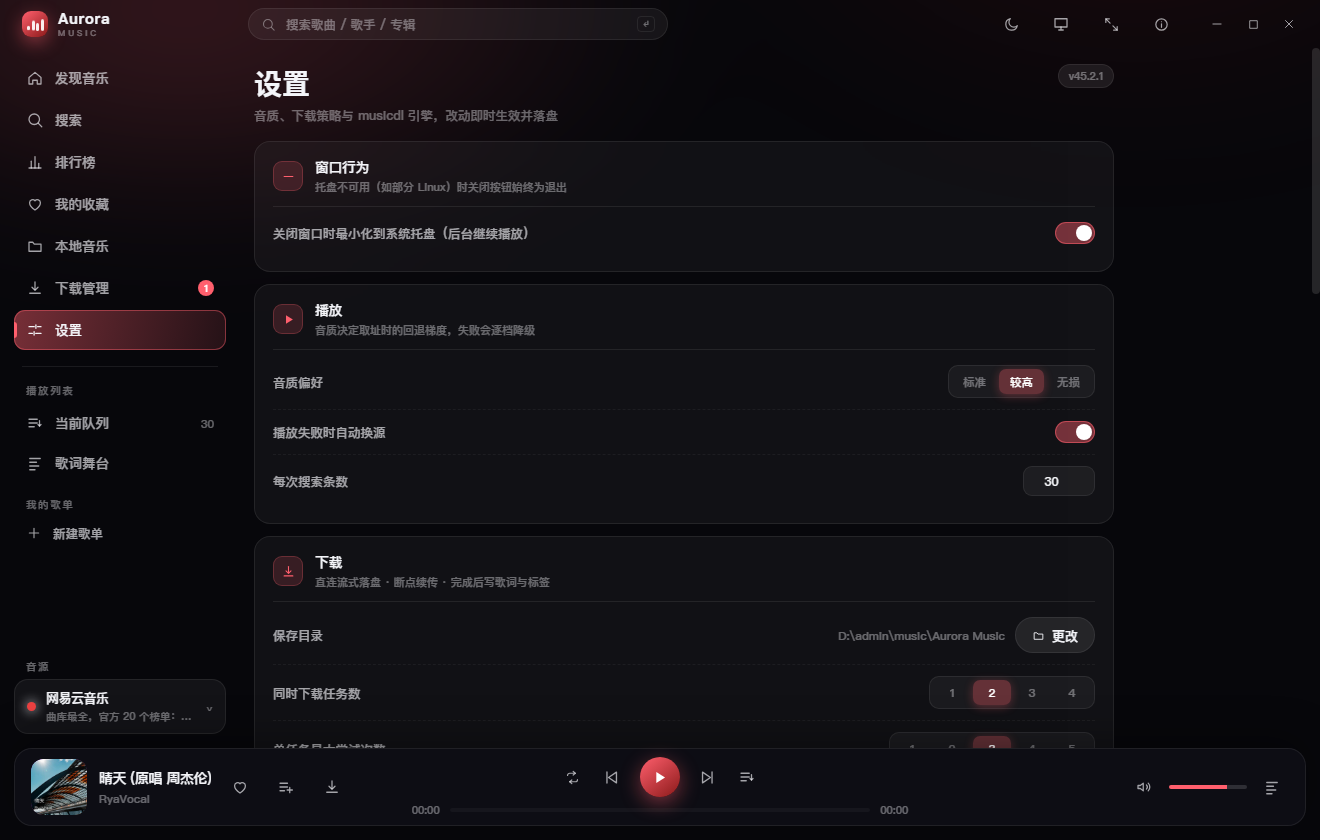
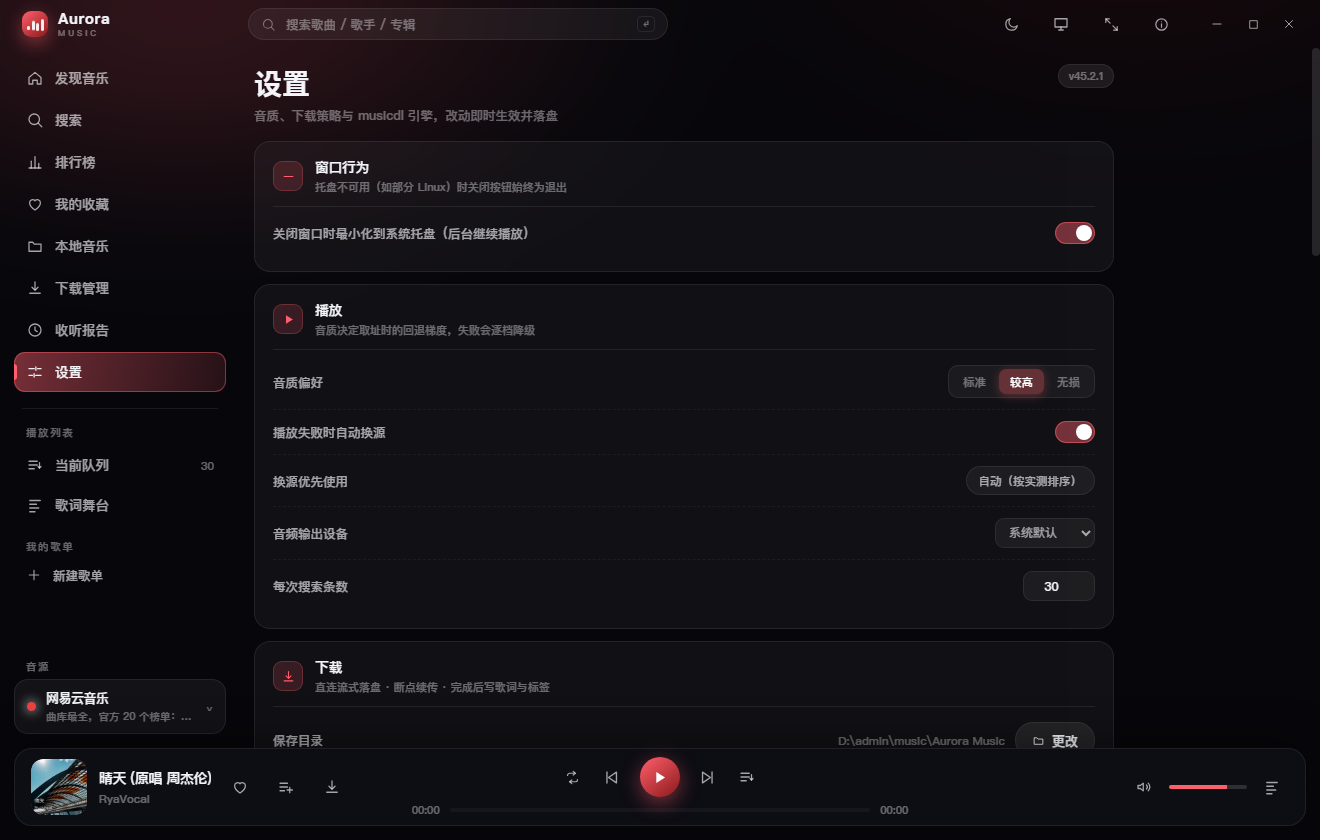
docs: 同步基础体验补齐的功能说明与数字

diff --git a/README.md b/README.md
@@ -17,12 +17,13 @@ Electron 45 + Vue 3.5 + TypeScript 5.9 + Vite 6，深色毛玻璃界面；内置
 | --- | --- |
 | **音源** | 20 个音源统一接口：5 个原生适配器 + 15 个进程内引擎音源，侧栏一键切换，无需重启 |
 | **搜索** | 关键词搜索、榜单浏览、增量出结果（慢音源解析一首显示一首）、搜索历史 |
-| **播放** | 四种播放模式（列表 / 单曲 / 随机 / 顺序）、队列抽屉（跨重启保留、拖拽重排、可存为歌单）、最近播放、收听统计（本周最常听、累计时长、独立收听报告页：13 周热力图 / 本月 Top 20 / 来源分布）、睡眠定时（15 / 30 / 60 分钟或播完本曲）、停滞自愈（同源重取 → 跨源换源）、换一个版本（跨音源手动挑替代版本，播放失败处与搜索结果都能进） |
+| **播放** | 四种播放模式（列表 / 单曲 / 随机 / 顺序）、队列抽屉（跨重启保留、拖拽重排、可存为歌单）、最近播放、收听统计（本周最常听、累计时长、独立收听报告页：13 周热力图 / 本月 Top 20 / 来源分布）、睡眠定时（15 / 30 / 60 分钟或播完本曲）、停滞自愈（同源重取 → 跨源换源）、换一个版本（跨音源手动挑替代版本，播放失败处与搜索结果都能进）、**换源优先源**（用户指定的源排最前）、**音频输出设备切换**（插拔耳机不用重启） |
 | **歌词** | 逐行 LRC / 逐字 YRC（网易云）与 QRC（QQ）、按歌手动对齐（±0.5 s，按歌记忆）、桌面歌词窗（迷你条 / 大字两态、锁定穿透、拖动与右下角把手缩放） |
 | **音效** | 五段均衡器（60/230/910/3600/14k，±12 dB）、夜间限幅器、实时频谱与黑胶动效 |
 | **下载** | 批量入队、并发与重试可配、断点续传、`.part` 原子落盘、写 ID3/Vorbis/MP4 标签，产物为音频 + `.lrc` + `.meta.json` |
 | **本地库** | 导入目录递归扫描，**读音频内嵌标签**（歌手 / 专辑 / 时长 / 封面，mp3 · flac · m4a · ogg），无标签时按文件名猜；库内搜索与歌手 / 专辑 / 格式 / 文件夹 / 来源筛选、7 字段排序、多选批量与右键菜单；重复文件清理（size 分组 + sha256）、按模板复制导出、复制文件到剪贴板；缺失文件标记与重新定位；单条 / 批量改标签 |
-| **桌面集成** | 系统托盘、全局快捷键（`Ctrl+Alt+P` 播放暂停、`Ctrl+Alt+←/→` 上下一首，macOS 为 `Control+Command`；另支持键盘媒体键）、任务栏媒体面板（SMTC + 封面）、关闭到托盘、迷你播放器、应用内使用指南（`F1`）、诊断导出、自动更新（仅 Windows 安装版） |
+| **桌面集成** | 系统托盘、全局快捷键（`Ctrl+Alt+P` 播放暂停、`Ctrl+Alt+←/→` 上下一首，macOS 为 `Control+Command`；另支持键盘媒体键）、任务栏媒体面板（SMTC + 封面）、**任务栏下载进度与跳转列表**、关闭到托盘、迷你播放器、应用内使用指南（`F1`）、诊断导出、自动更新（仅 Windows 安装版） |
+| **数据** | 全量备份 / 还原（设置、本地库索引、歌单、下载记录、收听统计；Cookie 与账号不导出，还原前自动留安全副本） |
 | **账号** | QQ / 网易云扫码或 Cookie 登录，解锁 VIP 与无损；凭据只存本机，可随时清除 |
 
 本地库的「删除」按来源分两档：**下载目录**内的文件真的删除（进系统回收站，连带同名 `.lrc` / `.meta.json`）；
@@ -100,11 +101,12 @@ src/
   main/                 主进程：所有网络与磁盘操作
     providers/          20 个音源适配器（netease / qq / kuwo / demo / local + 15 个引擎源）
     engine/ts/          进程内音源引擎（签名、分页、HLS、标签写入）
-    services/           catalog（搜索/取址/换源）、download、library、playlists、cache、
-                        fileops（复制/导出/回收站）、clipboard（文件剪贴板）、diagnostics、source-health…
+    services/           catalog（搜索/取址/换源）、download、library、playlists、backup、
+                        cache、fileops（复制/导出/回收站）、clipboard（文件剪贴板）、diagnostics、source-health…
     windows.ts          主窗口 / 桌面歌词窗 / 迷你条 / 音量气泡
+    taskbar.ts          任务栏进度条与跳转列表（仅 Windows）
     protocol.ts         muse:// 媒体协议（封面代理、本地流式读取）
-    ipc.ts              100 个 IPC 通道的处理器
+    ipc.ts              103 个 IPC 通道的处理器
   preload/              contextBridge 暴露的 window.api
   shared/               IPC 常量、类型、歌词解析（主进程与渲染层共用）
   renderer/src/

diff --git a/docs/README.md b/docs/README.md
@@ -15,7 +15,8 @@
 | [adding-a-source.md](adding-a-source.md) | 新增音源：模板走查、字段对照、常见问题（搜不到 / 播不了 / 时长错 / 被限流） | 想接一个新音源 |
 | [../CONTRIBUTING.md](../CONTRIBUTING.md) | 开发环境、四道检查、代码约定、PR 边界 | 准备提 PR |
 | [code-signing.md](code-signing.md) | Windows 代码签名的三条路线、证书接入 CI 的步骤、签名相关的打包坑 | 处理 SmartScreen、配置 CSC_LINK |
-| [bilibili-promo-prompts.md](bilibili-promo-prompts.md) | B 站介绍视频的生图提示词：统一视觉设定、8 条分镜、桌面/移动差异速查 | 做宣传视频、生成封面与演示图 |
+| [bilibili-promo-prompts.md](bilibili-promo-prompts.md) | B 站介绍视频的生图提示词：统一视觉设定、8 条分镜、桌面/移动差异速查 | 做宣传视频、生成演示图 |
+| [bilibili-cover.md](bilibili-cover.md) | B 站封面（1146×717）的文案定稿、两版可直接粘贴的生图提示词、核字清单与自检 | 做封面、改封面标题 |
 
 ## 归档（`archive/`）
 

diff --git a/docs/ARCHITECTURE.md b/docs/ARCHITECTURE.md
@@ -320,6 +320,8 @@ Aurora 自己实现了网易云/QQ/酷我（需要榜单与逐字歌词），剩
 | `download:progress`                           | main → renderer     | 任务列表快照（节流） |
 | `library:*` / `settings:*`                    | invoke              | 本地库与设置     |
 | `playlist:*`                                  | invoke              | 收藏与歌单（写操作统一返回完整列表） |
+| `backup:export` / `backup:import`             | invoke              | 全量备份与还原（文件名校验 + 凭据脱敏） |
+| `app:relaunch`                                | invoke              | 还原后重启（绕过 quit 的 flush，避免旧值回写） |
 | `win:*`                                       | send/invoke         | 无边框窗口控制    |
 | `lyric-window:toggle/close/lock/push`         | send/invoke         | 桌面歌词       |
 | `lyric-window:state`                          | main → lyric window | 歌词状态推送     |

diff --git a/CONTRIBUTING.md b/CONTRIBUTING.md
@@ -25,7 +25,7 @@ npm run dev           # 开发模式（热更新）
 
 ```bash
 npm run typecheck     # vue-tsc + tsc，零 error
-npm test              # 单元测试（Node 原生 runner，139 例）
+npm test              # 单元测试（Node 原生 runner，184 例）
 npm run engine:test   # 引擎层单元测试（92 例）
 npm run build         # 三端产物必须能出
 ```
